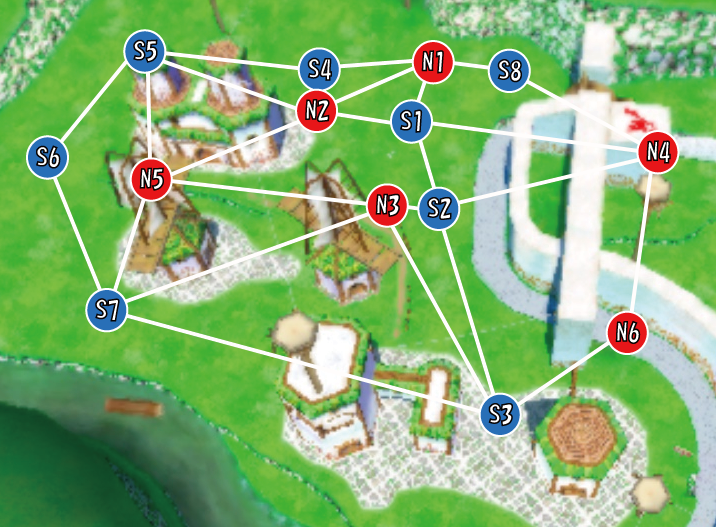
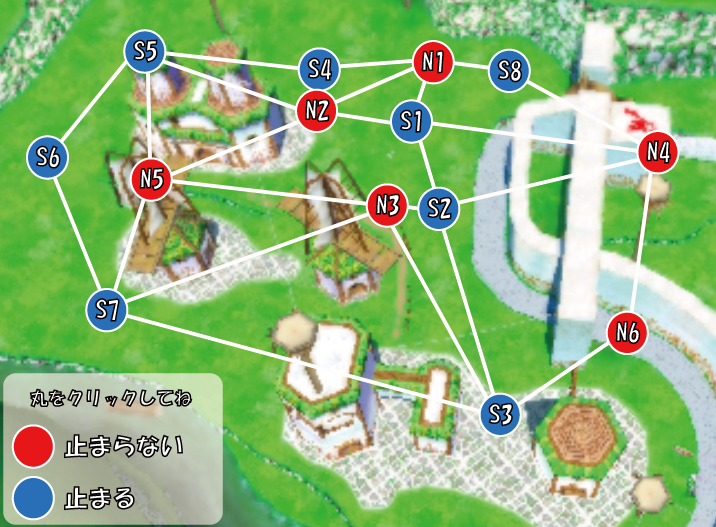
リセット追加、英語にも対応

Changed region(s): [[0.0, 0.6983, 0.338, 1.0]]

diff --git a/petey.js b/petey.js
@@ -4,8 +4,8 @@ var nscount = 1;
 var scount = 0;
 var nowi = 0;
 var previ = 0;
+var lang = "ja";
 var mx, my, dx, dy;
-var result = [];
 var patterns = getCSV('PeteyPatternProbabilities.csv');
 var adjacency = [[0,1,0,0,0,0,1,0,0,1,0,0,0,1],
 					 [1,0,0,0,1,0,1,0,0,0,1,0,0,0],
@@ -24,8 +24,10 @@ var adjacency = [[0,1,0,0,0,0,1,0,0,1,0,0,0,1],
 var pos_stop = [434,58,317,108,387,202,659,147,152,175,628,329,
 412,116,439,207,501,412,320,66,145,48,47,154,107,307,510,66];
 
-document.write("<img src='peteypattern.png' style='position:absolute;left:" + "0" + "px;top:" + "0" + "px;' name='screen'>");
+document.write("<img src='peteypattern.png' style='position:absolute;left:" + "0" + "px;top:" + "0" + "px;' name='screen' id='peteypattern'>");
 document.write("<img src='bosupakkun.png' width='47' height='57' style='position:absolute;left:" + "414" + "px;top:" + "10" + "px;' name='bosupakkun'>");
+document.write("<img src='reset.png' width='100' style='position:absolute;left:" + "610" + "px;top:" + "490" + "px;' name='reset'>");
+document.write("<img src='english.png' width='100' style='position:absolute;left:" + "610" + "px;top:" + "450" + "px;' name='english' id='english'>");
 document.write("<div id='path' style='position:absolute;left:" + 0 + "px;top:" + 545 + "px;font-size:20px;color:rgb(0,0,0);'>" + peteypath1 + "</div>");
 document.write("<div id='text1' style='position:absolute;left:" + 0 + "px;top:" + 605 + "px;font-size:34px;color:rgb(0,0,0);'><b><font size='4'>順位</font></b></div>");
 document.write("<div id='text2' style='position:absolute;left:" + 200 + "px;top:" + 605 + "px;font-size:34px;color:rgb(0,0,0);'><b><font size='4'>デレ度</font></b></div>");
@@ -65,7 +67,15 @@ function msDown(e)
 		mx = e.pageX;//　マウスの座標を取得
    	my = e.pageY;
    }
-	for(var i=0;i<14;i++)
+	if (mx>610&&mx<710&&my>445&&my<485) //  言語ボタン
+	{
+		chgLang();
+	}
+	if (mx>610&&mx<710&&my>485&&my<525) //  リセット
+	{
+		reset();
+	}
+	for(var i=0;i<14;i++) //  ノードをクリック
 	{
 		dx = mx - pos_stop[i*2];
 		dy = my - pos_stop[i*2+1];
@@ -101,7 +111,7 @@ function msDown(e)
 			}
 		}
 	}
-	//document.getElementById("test").innerHTML = "x:" + dx + ", y:" + dy;
+	//document.getElementById("test").innerHTML = "x:" + mx + ", y:" + my;
 }
 
 function msMove(e)
@@ -148,11 +158,20 @@ function showResult(){
 	var time3 = timeFormat(col[5]);
 	console.log(1-(col[7]-col[8]));
 	var luck = ((1-(col[7]-col[8]))*100).toFixed(2);
-	document.getElementById("rank").innerHTML = "<b>" + rank + "/774<font size='3'> 位</font></b>";
-	document.getElementById("luck").innerHTML = "<b>" + luck + "<font size='3'> %</font></b>"
-	document.getElementById("time1").innerHTML = "<b>" + time1 + "<font size='3'> 秒</font></b>";
-	document.getElementById("time2").innerHTML = "<b>" + time2 + "<font size='3'> 秒</font></b>";
-	document.getElementById("time3").innerHTML = "<b>" + time3 + "<font size='3'> 秒</font></b>";
+	if (lang=="ja")
+	{
+		document.getElementById("rank").innerHTML = "<b>" + rank + "/774<font size='3'> 位</font></b>";
+		document.getElementById("luck").innerHTML = "<b>" + luck + "<font size='3'> %</font></b>";
+		document.getElementById("time1").innerHTML = "<b>" + time1 + "<font size='3'> 秒</font></b>";
+		document.getElementById("time2").innerHTML = "<b>" + time2 + "<font size='3'> 秒</font></b>";
+		document.getElementById("time3").innerHTML = "<b>" + time3 + "<font size='3'> 秒</font></b>";
+	} else {
+		document.getElementById("rank").innerHTML = "<b>" + rank + "/774</b>";
+		document.getElementById("luck").innerHTML = "<b>" + luck + "<font size='3'> %</font></b>";
+		document.getElementById("time1").innerHTML = "<b>" + time1 + "<font size='3'> s</font></b>";
+		document.getElementById("time2").innerHTML = "<b>" + time2 + "<font size='3'> s</font></b>";
+		document.getElementById("time3").innerHTML = "<b>" + time3 + "<font size='3'> s</font></b>";
+	}
 }
 
 function timeFormat(num){
@@ -163,4 +182,67 @@ function timeFormat(num){
 	else if(num>-10) {str = "- 0" + (-num).toFixed(3);}
 	else {str = "- " + (-num).toFixed(3);}
 	return str;
+}
+
+function chgLang(){
+	if(lang=="ja")
+	{
+		lang = "en";
+		document.getElementById("peteypattern").src="peteypatternen.png";
+		document.getElementById("english").src="japanese.png";
+		document.getElementById("text1").innerHTML = 
+		"<b><font size='4'>Ranking</font></b>";
+		document.getElementById("text2").innerHTML = 
+		"<b><font size='4'>Luck</font></b>";
+		document.getElementById("text3").innerHTML = "<b><font size='1'>Compared to </font><font size='4'>Fastest</font></b>";
+		document.getElementById("text4").innerHTML = "<b><font size='1'>Compared to </font><font size='4'>Average</font></b>";
+		document.getElementById("text5").innerHTML = "<b><font size='1'>Compared to </font><font size='4'>Slowest</font></b>";
+		document.getElementById("rank").innerHTML = (document.getElementById("rank").innerHTML).slice(0,-28) + "</b>";
+		document.getElementById("time1").innerHTML = (document.getElementById("time1").innerHTML).slice(0,-12) + "s</font></b>";
+		document.getElementById("time2").innerHTML = (document.getElementById("time2").innerHTML).slice(0,-12) + "s</font></b>";
+		document.getElementById("time3").innerHTML = (document.getElementById("time3").innerHTML).slice(0,-12) + "s</font></b>";
+	} else {
+		lang = "ja";
+		document.getElementById("peteypattern").src="peteypattern.png";
+		document.getElementById("english").src="english.png";
+		document.getElementById("text1").innerHTML = 
+		"<b><font size='4'>順位</font></b>";
+		document.getElementById("text2").innerHTML = 
+		"<b><font size='4'>デレ度</font></b>";
+		document.getElementById("text3").innerHTML = "<b>最速<font size='3'> と比べて</font></b>";
+		document.getElementById("text4").innerHTML = "<b>平均<font size='3'> と比べて</font></b>";
+		document.getElementById("text5").innerHTML = "<b>最遅<font size='3'> と比べて</font></b>";
+		document.getElementById("rank").innerHTML = (document.getElementById("rank").innerHTML).slice(0,-4) + "<font size='3'> 位</font></b>";
+		document.getElementById("time1").innerHTML = (document.getElementById("time1").innerHTML).slice(0,-12) + "秒</font></b>";
+		document.getElementById("time2").innerHTML = (document.getElementById("time2").innerHTML).slice(0,-12) + "秒</font></b>";
+		document.getElementById("time3").innerHTML = (document.getElementById("time3").innerHTML).slice(0,-12) + "秒</font></b>";
+	}
+}
+
+function reset(){
+	peteypath1 = "N1";
+	peteypath2 = "N1";
+	nscount = 1;
+	scount = 0;
+	nowi = 0;
+	previ = 0;
+	document.bosupakkun.style.left = "414px";
+	document.bosupakkun.style.top  = "10px";
+	if (lang=="ja")
+	{
+		document.getElementById("path").innerHTML = "N1";
+		document.getElementById("rank").innerHTML = "<b>???/774<font size='3'> 位</font></b>";
+		document.getElementById("luck").innerHTML = "<b>???.??<font size='3'> %</font></b>";
+		document.getElementById("time1").innerHTML = "<b>+ ??.???<font size='3'> 秒</font></b>";
+		document.getElementById("time2").innerHTML = "<b>+ ??.???<font size='3'> 秒</font></b>";
+		document.getElementById("time3").innerHTML = "<b>+ ??.???<font size='3'> 秒</font></b>";
+	} else{
+		document.getElementById("path").innerHTML = "N1";
+		document.getElementById("rank").innerHTML = "<b>???/774</b>";
+		document.getElementById("luck").innerHTML = "<b>???.??<font size='3'> %</font></b>";
+		document.getElementById("time1").innerHTML = "<b>+ ??.???<font size='3'> s</font></b>";
+		document.getElementById("time2").innerHTML = "<b>+ ??.???<font size='3'> s</font></b>";
+		document.getElementById("time3").innerHTML = "<b>+ ??.???<font size='3'> s</font></b>";
+	}
+	
 }
